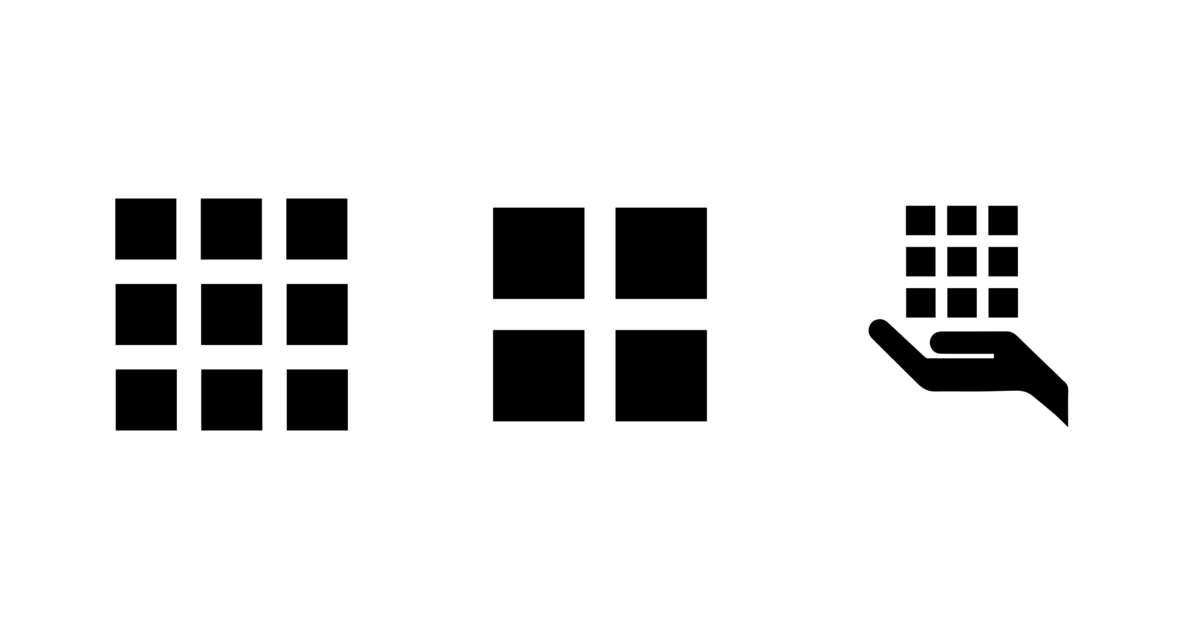
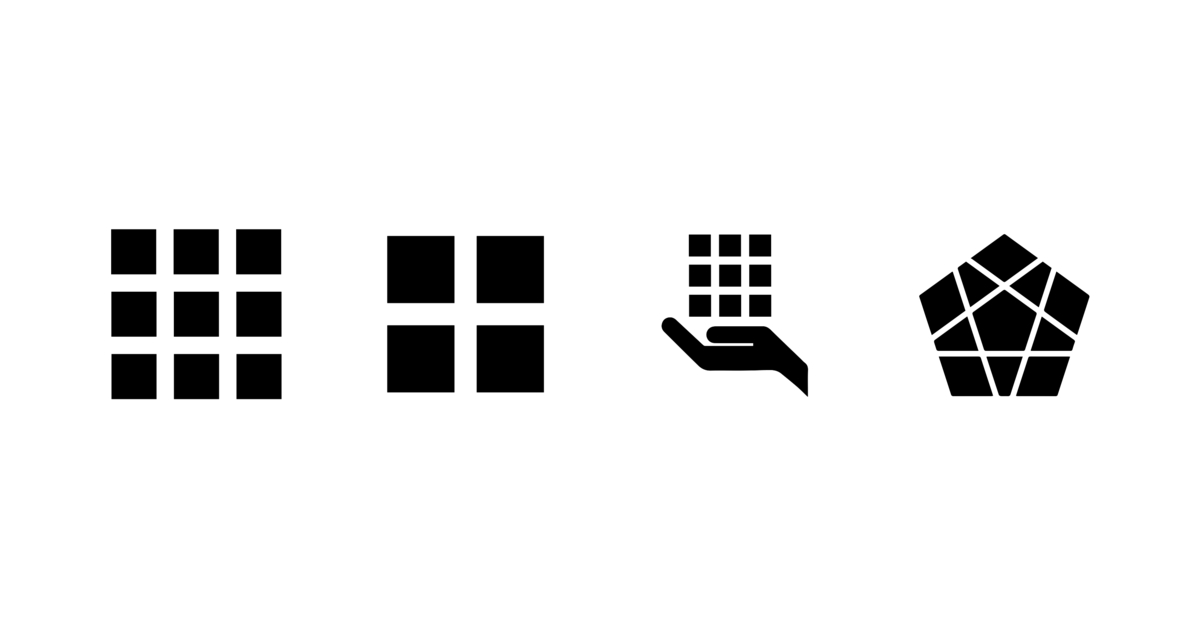
Add Megaminx to 3x3x3+

Changed region(s): [[0.0925, 0.3025, 0.6783, 0.6959], [0.7092, 0.3025, 0.925, 0.6656]]

diff --git a/img/magick.md b/img/magick.md
@@ -25,6 +25,10 @@ mogrify -format png -path png -resize 900x471 -gravity center -extent 1200x628 s
 convert svg/333.svg svg/222.svg svg/333oh.svg -splice 200x0+0+0 +append -chop 200x0+0+0 -resize 1000x628 -gravity center -extent 1200x628 png/333+.png
 ```
 
+```
+convert svg/333.svg svg/222.svg svg/333oh.svg svg/minx.svg -splice 200x0+0+0 +append -chop 200x0+0+0 -resize 1000x628 -gravity center -extent 1200x628 png/333+.png
+```
+
 #### 4x4x4+
 
 ```
